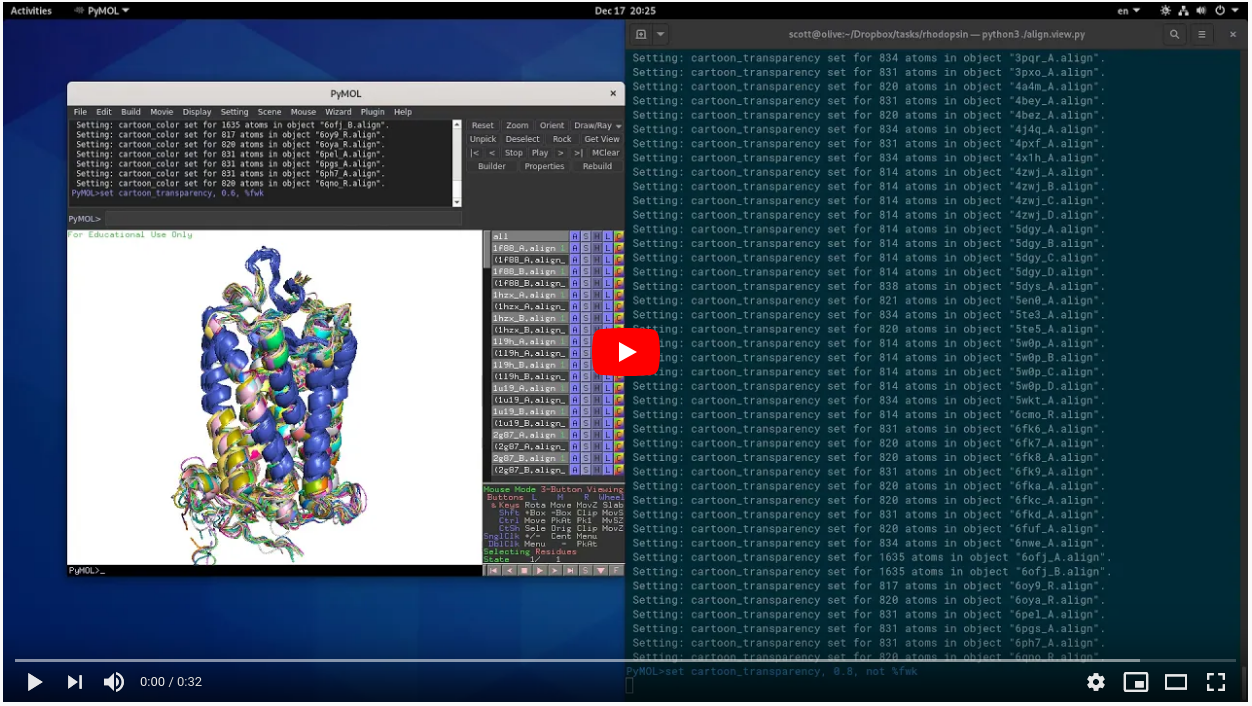
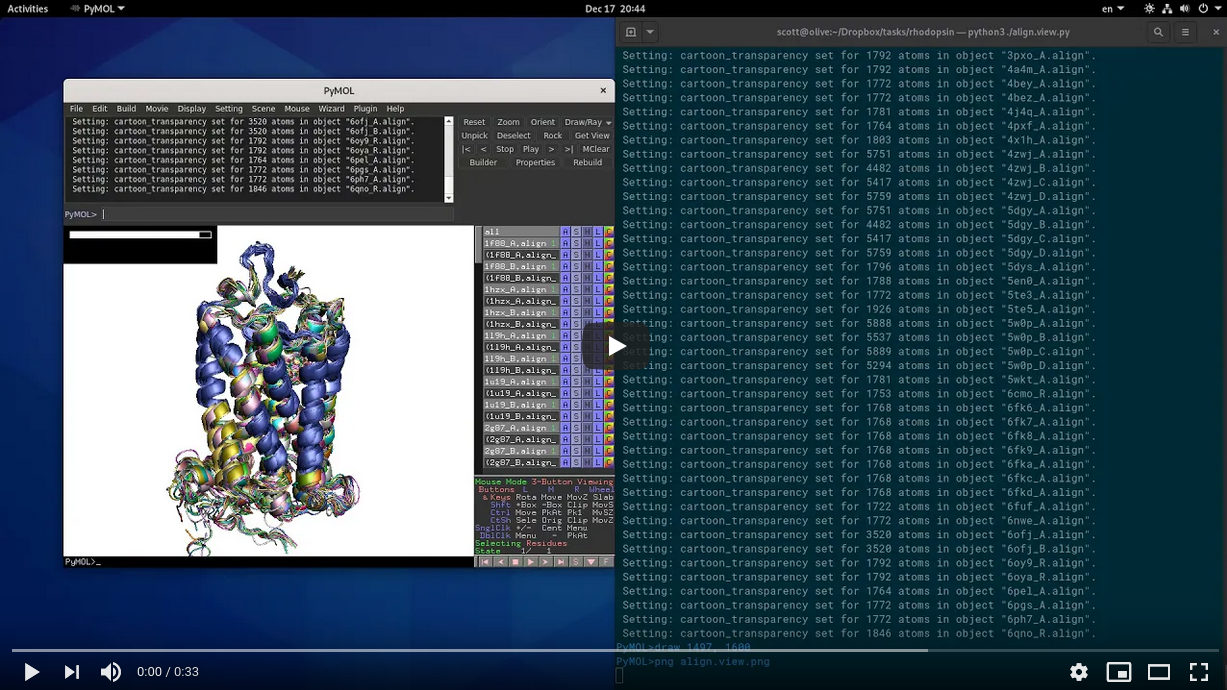
Update examples

Changed region(s): [[0.0, 0.0, 1.0, 1.0]]

diff --git a/examples/align.view.py b/examples/align.view.py
@@ -1,47 +1,30 @@
 #!/usr/bin/env python3
 # -*- coding: utf-8 -*-
 
-''' Visualize the aligned rhodopsin structures based on the rigid framework
-    specified in `fwk.dat`
-
-    The chains to align are specified in `chains.comp.dat`.  
-
-    PDBs files are save under `pdb_vr` directory.  
+''' Align a list of molecules using `super` command in PyMol.  The first item 
+    in the list is considered as the reference.  
 '''
 
 import pymolPy3
+import pyrotein as pr
 import os
-
-def read_file(file, numerical = False):
-    '''Return all lines in the user supplied parameter file without comments.
-    '''
-    lines = []
-    with open(file,'r') as fh:
-        for line in fh.readlines():
-            # Separate entries by spaces and remove commented lines...
-            words = line.replace('#', ' # ').split()
-
-            # Omit any thing coming after the pound sign in a line...
-            if "#" in words: words = words[  : words.index("#")]
-
-            # Save non-empty line...
-            if numerical: words = [ float(word) for word in words ]
-            if len(words) > 0: lines.append(words)
-
-    return lines
 
 # Specify chains to process...
 fl_chain = "chains.comp.dat"
-lines    = read_file(fl_chain)
+lines    = pr.utils.read_file(fl_chain)
 drc      = "pdb_vr"
+
+# Define atoms used for distance matrix analysis...
+peptide = ["N", "CA", "C", "O"]
 
 # Specify the range of atoms from rhodopsin...
 nterm = 1
 cterm = 348
+len_atoms_peptide = (cterm - nterm + 1) * len(peptide)
 
 # Specify the rigid framework...
 fl_fwk     = 'fwk.dat'
-fwk        = read_file(fl_fwk)
+fwk        = pr.utils.read_file(fl_fwk)
 fwk_select = ' or '.join( [ f"(resi {'-'.join(i)})" for i in fwk ] )
 
 # Start pymol
@@ -75,6 +58,8 @@ pm(f"select fwk, all and ({fwk_select})")
 pm(f"disable %fwk")
 
 
+
+
 # Customization
 # Set view...
 pm("set_view (\\")
@@ -86,15 +71,15 @@ pm("    58.718177795 ,    8.645618439,   -0.894862056,\\")
 pm("  -1408.164916992, 1895.492553711,  -20.000000000  )")
 
 # Set the lighting...
-pm("set 'ambient'           , 0.05")
-pm("set 'direct'            , 0.2" )
-pm("set 'spec_direct'       , 0"   )
-pm("set 'shininess'         , 10." )
-pm("set 'reflect'           , 0.5" )
-pm("set 'spec_count'        , -1"  )
-pm("set 'spec_reflect'      , -1." )
-pm("set 'specular'          , 1"   )
-pm("set 'specular_intensity', 0.5" )
+pm("set ambient           , 0.05")
+pm("set direct            , 0.2" )
+pm("set spec_direct       , 0"   )
+pm("set shininess         , 10." )
+pm("set reflect           , 0.5" )
+pm("set spec_count        , -1"  )
+pm("set spec_reflect      , -1." )
+pm("set specular          , 1"   )
+pm("set specular_intensity, 0.5" )
 
 # Hide the non-rhodopsin region...
 pm(f"hide cartoon, (not resi {nterm}-{cterm})")

diff --git a/README.md b/README.md
@@ -7,7 +7,7 @@ The length of source code is only 32 lines, but the example has a size of 29MB.
 
 What can it do?
 
-[![](examples/thumbnail.png)](https://www.youtube.com/watch?v=Tx_IWvIplPU)
+[![](examples/thumbnail.png)](https://youtu.be/BGi00Tl-9L4)
 
 
 ## Install `pymolPy3`
